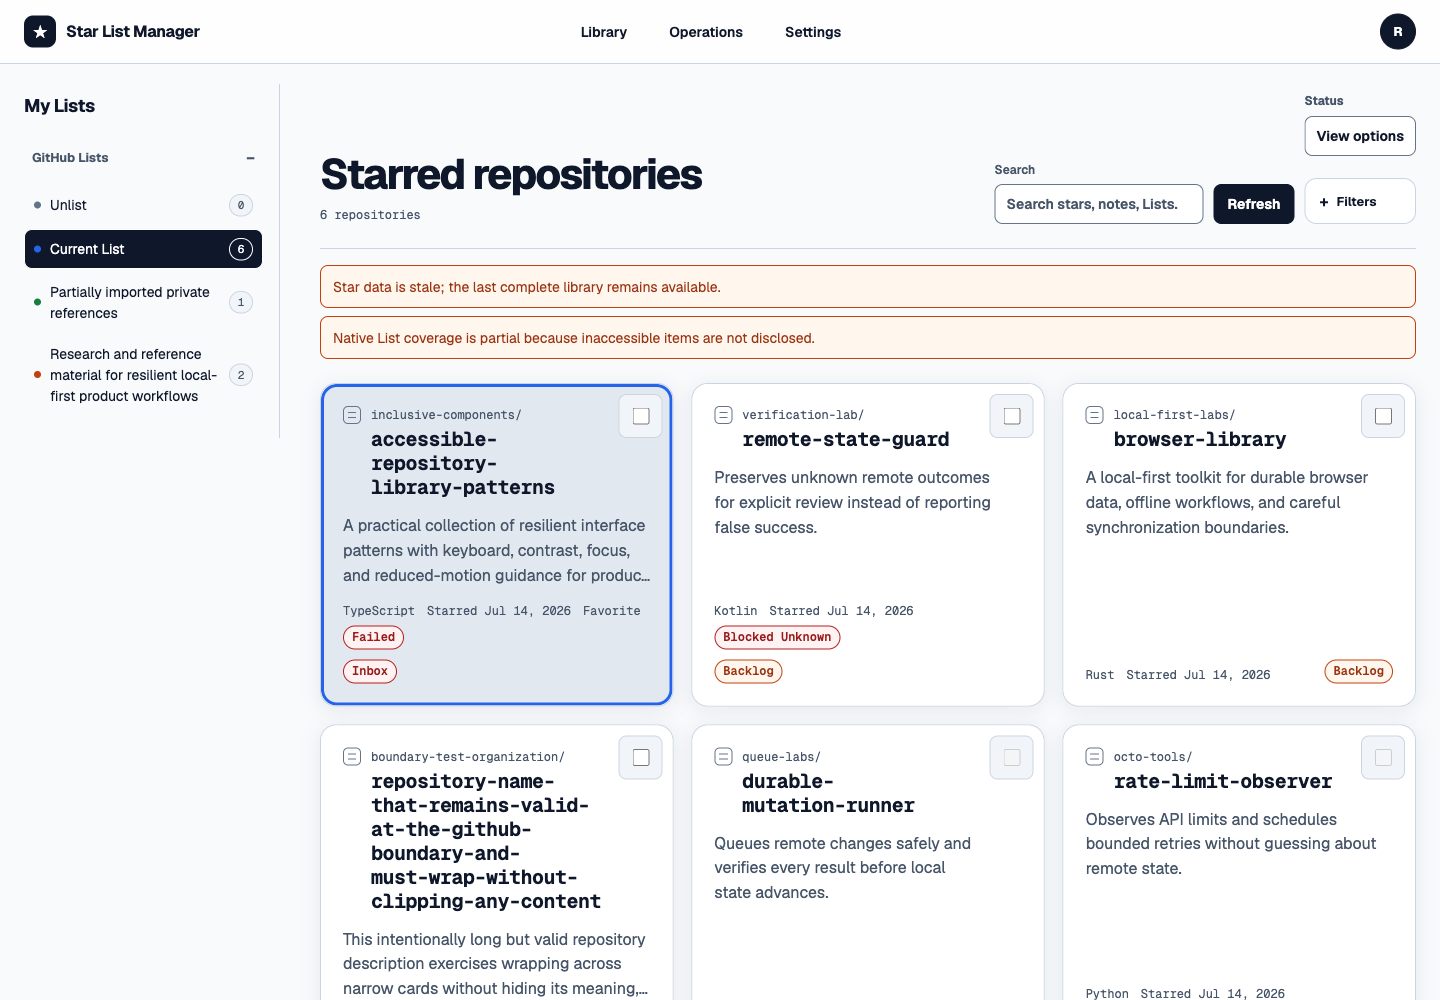
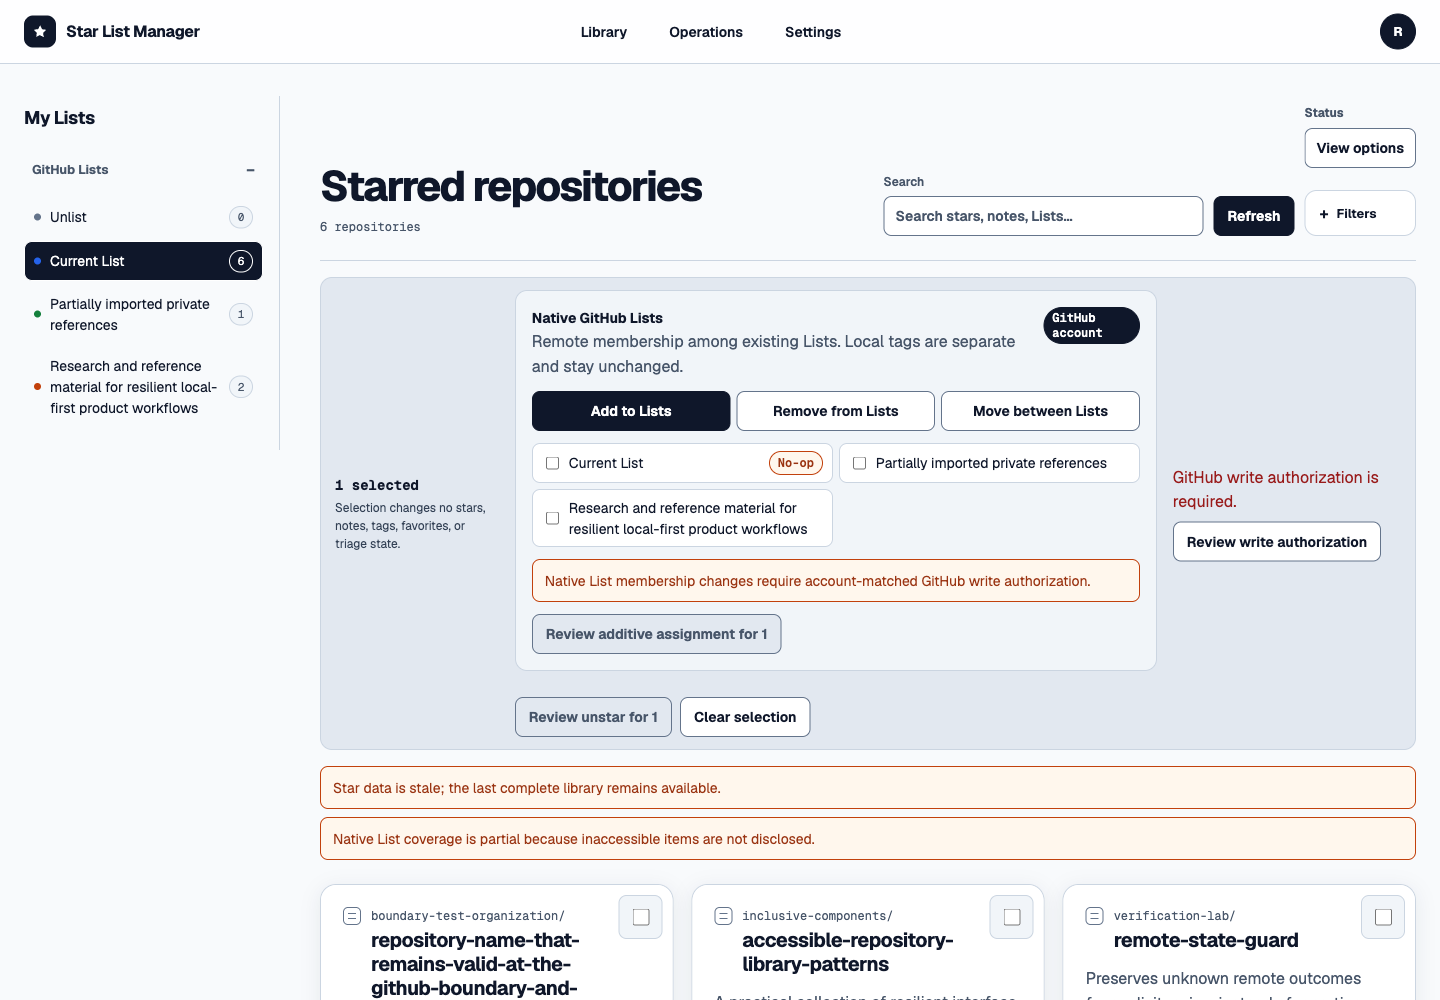
fix: close dashboard finish review

diff --git a/src/dashboard/scripts.ts b/src/dashboard/scripts.ts
@@ -76,6 +76,9 @@ const {
   textarea,
   ul
 } = van.tags
+const svgTags = van.tags('http://www.w3.org/2000/svg')
+const svg = svgTags.svg!
+const svgPath = svgTags.path!
 
 const emptyState: AppState = {
   phase: 'loading',
@@ -346,7 +349,22 @@ function AppHeader() {
     {class: 'app-header'},
     div(
       {class: 'app-brand'},
-      span({class: 'brand-mark', 'aria-hidden': 'true'}, '★'),
+      span(
+        {class: 'brand-mark', 'aria-hidden': 'true'},
+        svg(
+          {
+            viewBox: '0 0 24 24',
+            width: 16,
+            height: 16,
+            'aria-hidden': 'true',
+            focusable: 'false'
+          },
+          svgPath({
+            d: 'M12 2.75 14.85 8.53 21.23 9.46 16.62 13.95 17.71 20.3 12 17.3 6.29 20.3 7.38 13.95 2.77 9.46 9.15 8.53Z',
+            fill: 'currentColor'
+          })
+        )
+      ),
       span({class: 'brand-wordmark'}, 'Star List Manager')
     ),
     nav(
@@ -629,7 +647,6 @@ function ReadyLibraryState(
 function LibraryResults(results: DerivedRepositoryResults) {
   const query = currentQuery()
   const visibleResults = results.visible
-  const selected = selectCurrentRepository(visibleResults)
   const mode = resultMode.val
   const inspected = inspectedRepositoryNodeId.val
     ? results.all.find(
@@ -652,9 +669,7 @@ function LibraryResults(results: DerivedRepositoryResults) {
                   handleResultKey(event, visibleResults)
               },
               ...visibleResults.map((item) =>
-                mode === 'cards'
-                  ? RepositoryCard(item, selected)
-                  : RepositoryRow(item, selected)
+                mode === 'cards' ? RepositoryCard(item) : RepositoryRow(item)
               )
             ),
         ProgressiveResultControl(results.count, visibleResults.length)
@@ -1790,12 +1805,10 @@ function MutationStatus(job: MutationJobRecord) {
   )
 }
 
-function RepositoryRow(item: LibraryRepository, selected: LibraryRepository | null) {
+function RepositoryRow(item: LibraryRepository) {
   const repository = item.repository
   const active = () =>
-    selectedRepositoryNodeId.val === repository.repositoryNodeId ||
-    (selectedRepositoryNodeId.val === null &&
-      selected?.repository.repositoryNodeId === repository.repositoryNodeId)
+    selectedRepositoryNodeId.val === repository.repositoryNodeId
   return li(
     {class: 'repository-row-shell'},
     RepositorySelectionControl(repository),
@@ -1846,12 +1859,10 @@ function RepositoryRow(item: LibraryRepository, selected: LibraryRepository | nu
   )
 }
 
-function RepositoryCard(item: LibraryRepository, selected: LibraryRepository | null) {
+function RepositoryCard(item: LibraryRepository) {
   const repository = item.repository
   const active = () =>
-    selectedRepositoryNodeId.val === repository.repositoryNodeId ||
-    (selectedRepositoryNodeId.val === null &&
-      selected?.repository.repositoryNodeId === repository.repositoryNodeId)
+    selectedRepositoryNodeId.val === repository.repositoryNodeId
   return li(
     {class: 'repository-card-shell'},
     RepositorySelectionControl(repository),
@@ -2615,16 +2626,6 @@ function currentQuery(): RepositoryQuery {
     sort: sort.val,
     ascending: ascending.val
   }
-}
-
-function selectCurrentRepository(
-  results: readonly LibraryRepository[]
-): LibraryRepository | null {
-  const selected = results.find(
-    (item) => item.repository.repositoryNodeId === selectedRepositoryNodeId.val
-  )
-  if (selected) return selected
-  return results[0] ?? null
 }
 
 function handleResultKey(

diff --git a/scripts/generate-dashboard-review.ts b/scripts/generate-dashboard-review.ts
@@ -58,7 +58,8 @@ const repositories = [
     'repository-name-that-remains-valid-at-the-github-boundary-and-must-wrap-without-clipping-any-content',
     'This intentionally long but valid repository description exercises wrapping across narrow cards without hiding its meaning, status, language, starred date, or local triage state at responsive boundaries.',
     'JavaScript',
-    ['responsive-design', 'long-content']
+    ['responsive-design', 'long-content'],
+    '2026-08-19T09:30:00Z'
   ),
   repository(
     'R_queue',
@@ -169,6 +170,20 @@ if (currentList === undefined) {
 }
 currentList.click()
 await browserWindow.happyDOM.whenAsyncComplete()
+const longRepository = repositories.find(
+  (repositoryRecord) => repositoryRecord.repositoryNodeId === 'R_long'
+)
+if (longRepository === undefined) {
+  throw new Error('Dashboard review fixture is missing the long-content repository.')
+}
+const longRepositorySelection = host.querySelector(
+  `input[aria-label="Select ${longRepository.fullName} for unstar"]`
+) as unknown as HTMLInputElement | null
+if (longRepositorySelection === null || longRepositorySelection.disabled) {
+  throw new Error('Dashboard review fixture long-content selection must be eligible.')
+}
+longRepositorySelection.click()
+await browserWindow.happyDOM.whenAsyncComplete()
 
 for (const selector of ['.app-shell', '.app-header', '.list-sidebar']) {
   if (host.querySelector(selector) === null) {
@@ -177,6 +192,20 @@ for (const selector of ['.app-shell', '.app-header', '.list-sidebar']) {
 }
 if (!host.textContent?.includes('Star List Manager')) {
   throw new Error('Dashboard review fixture is missing the Star List Manager wordmark.')
+}
+const firstCard = host.querySelector('.repository-card') as unknown as HTMLButtonElement | null
+if (firstCard?.dataset.repositoryNodeId !== 'R_long') {
+  throw new Error('Dashboard review fixture must expose the long-content card first.')
+}
+const selectionBar = host.querySelector('.selection-bar') as unknown as HTMLElement | null
+if (selectionBar === null) {
+  throw new Error('Dashboard review fixture is missing the selected-repository safety bar.')
+}
+if (selectionBar.querySelector<HTMLButtonElement>('.danger-action')?.disabled !== true) {
+  throw new Error('Dashboard review fixture destructive action must remain disabled.')
+}
+if (selectionBar.querySelector('.write-readiness-notice') === null) {
+  throw new Error('Dashboard review fixture is missing write-readiness guidance.')
 }
 
 const styles = await readFile(new URL('../src/dashboard/styles.css', import.meta.url), 'utf8')
@@ -212,7 +241,8 @@ function repository(
   name: string,
   description: string,
   primaryLanguage: string,
-  topics: readonly string[]
+  topics: readonly string[],
+  starredAt = '2026-07-14T09:30:00Z'
 ): RepositoryRecord {
   return {
     githubUserId: accountId,
@@ -224,7 +254,7 @@ function repository(
     description,
     topics,
     primaryLanguage,
-    starredAt: '2026-07-14T09:30:00Z',
+    starredAt,
     pushedAt: '2026-08-18T16:45:00Z',
     archived: false,
     disabled: false,

diff --git a/tests/dashboard/dom.test.ts b/tests/dashboard/dom.test.ts
@@ -106,6 +106,9 @@ test('renders the Star List Manager shell with real primary navigation', async (
   expect(shell).not.toBeNull()
   expect(header).not.toBeNull()
   expect(header?.querySelector('.brand-wordmark')?.textContent).toBe('Star List Manager')
+  const brandMark = header?.querySelector<HTMLElement>('.brand-mark') ?? null
+  expect(brandMark?.querySelector('svg[aria-hidden="true"]')).not.toBeNull()
+  expect(brandMark?.textContent).toBe('')
   expect(root.querySelector('.archive-wordmark')).toBeNull()
   expect(frame?.closest('.app-shell')).toBe(shell)
   expect(sidebar?.closest('.app-frame')).toBe(frame)
@@ -2880,6 +2883,47 @@ test('uses a labelled repository button list and moves focus with arrow keys', a
   ) ?? null
   expect((browserWindow.document.activeElement as unknown) === focusedSecond).toBe(true)
   expect(focusedSecond?.classList.contains('is-selected')).toBe(true)
+})
+
+test('reserves card selection styling for an explicit keyboard current result', async () => {
+  const ready = readyDashboardState()
+  const second = repositoryRecord('42', 'R_two', 'github/two')
+  const root = await mountReadyDashboard({
+    ...ready,
+    library: {
+      ...ready.library!,
+      repositories: [...ready.library!.repositories, second]
+    }
+  })
+  const browserWindow = window as unknown as Window
+  const [firstCard, secondCard] = [
+    ...root.querySelectorAll<HTMLButtonElement>('.repository-card')
+  ]
+
+  expect(firstCard?.classList.contains('repository-card')).toBe(true)
+  expect(firstCard?.classList.contains('is-selected')).toBe(false)
+  expect(secondCard?.classList.contains('is-selected')).toBe(false)
+  if (firstCard === undefined || secondCard === undefined) {
+    throw new Error('Repository cards are required.')
+  }
+  const firstRepositoryNodeId = firstCard.dataset.repositoryNodeId
+  const secondRepositoryNodeId = secondCard.dataset.repositoryNodeId
+
+  firstCard.focus()
+  firstCard.dispatchEvent(
+    new browserWindow.KeyboardEvent('keydown', {key: 'ArrowDown', bubbles: true}) as unknown as Event
+  )
+  await nextTurn(browserWindow)
+
+  const currentFirstCard = root.querySelector<HTMLButtonElement>(
+    `[data-repository-node-id="${firstRepositoryNodeId}"]`
+  )
+  const currentSecondCard = root.querySelector<HTMLButtonElement>(
+    `[data-repository-node-id="${secondRepositoryNodeId}"]`
+  )
+  expect((browserWindow.document.activeElement as unknown) === currentSecondCard).toBe(true)
+  expect(currentFirstCard?.classList.contains('is-selected')).toBe(false)
+  expect(currentSecondCard?.classList.contains('is-selected')).toBe(true)
 })
 
 test('opens repository inspection in a modal only after a row is activated', async () => {

diff --git a/tests/dashboard/styles.test.ts b/tests/dashboard/styles.test.ts
@@ -95,6 +95,20 @@ test('builds a sticky 64px material header with an opaque fallback', () => {
   expect(declarationsFor(dark, ':root')).toMatch(/--header-material:\s*rgb\(/)
 })
 
+test('keeps desktop library actions in Search, Refresh, Status order on one baseline', () => {
+  const actions = exactRuleFor(styles, ['.library-actions'])
+  expect(actions).toMatch(/display:\s*grid/)
+  expect(actions).toMatch(
+    /grid-template-columns:\s*minmax\([^;]+\) auto auto/
+  )
+  expect(actions).toMatch(/align-items:\s*end/)
+  expect(actions).not.toMatch(/flex-wrap/)
+
+  const stacked = extractMedia(styles, '(max-width: 1180px)')
+  expect(ruleFor(stacked, '.library-actions')).toMatch(/display:\s*flex/)
+  expect(ruleFor(stacked, '.library-actions')).toMatch(/flex-wrap:\s*wrap/)
+})
+
 test('uses a centered desktop frame and a sticky My Lists rail', () => {
   const frame = exactRuleFor(styles, ['.app-frame'])
   const sidebar = exactRuleFor(styles, ['.list-sidebar'])
@@ -224,9 +238,15 @@ test('uses semantic control, placeholder, disabled, and danger roles', () => {
 test('keeps prose readable and compact metadata technical', () => {
   expect(ruleFor(styles, '.state-copy,')).toMatch(/max-width:\s*var\(--measure-prose\)/)
   expect(ruleFor(styles, '.state-copy,')).toMatch(/font-size:\s*var\(--type-reading-size\)/)
+  const repositoryTitle = exactRuleFor(styles, ['.repository-row h2'])
+  expect(repositoryTitle).toMatch(/font-family:\s*var\(--font-prose\)/)
   const data = exactRuleFor(styles, ['.repository-owner', '.repository-meta', '.batch-status', '.operation-history-list span'])
   expect(data).toMatch(/font-family:\s*var\(--font-technical\)/)
   expect(data).toMatch(/font-size:\s*var\(--type-data-size\)/)
+  expect(ruleFor(styles, '.repository-card-facts')).toMatch(
+    /font-family:\s*var\(--font-technical\)/
+  )
+  expect(ruleFor(styles, '.list-count')).toMatch(/font-family:\s*var\(--font-technical\)/)
   const operationalCopy = exactRuleFor(styles, ['.job-error', '.operation-history-list p', '.membership-job-detail'])
   expect(operationalCopy).toMatch(/font-family:\s*var\(--font-prose\)/)
   expect(operationalCopy).toMatch(/max-width:\s*var\(--measure-prose\)/)

diff --git a/src/dashboard/styles.css b/src/dashboard/styles.css
@@ -195,7 +195,12 @@ p {
   color: var(--action-primary-text);
   background: var(--action-primary);
   border-radius: 9px;
-  font-size: 14px;
+}
+
+.brand-mark svg {
+  display: block;
+  width: 16px;
+  height: 16px;
 }
 
 .brand-wordmark {
@@ -459,11 +464,12 @@ h1 {
 }
 
 .library-actions {
-  display: flex;
-  min-width: min(100%, 420px);
-  align-items: flex-end;
-  justify-content: flex-end;
-  flex-wrap: wrap;
+  display: grid;
+  grid-template-columns: minmax(220px, 320px) auto auto;
+  width: min(100%, 560px);
+  min-width: 0;
+  align-items: end;
+  justify-content: end;
   gap: 10px;
 }
 
@@ -1017,6 +1023,7 @@ h1 {
   min-width: 0;
   margin: 2px 0 0;
   overflow-wrap: anywhere;
+  font-family: var(--font-prose);
   font-size: 1.0625rem;
   font-weight: 680;
   letter-spacing: -0.02em;
@@ -1949,7 +1956,9 @@ textarea:disabled {
   }
 
   .library-actions {
+    display: flex;
     justify-content: flex-start;
+    flex-wrap: wrap;
   }
 
   .search-field input {
